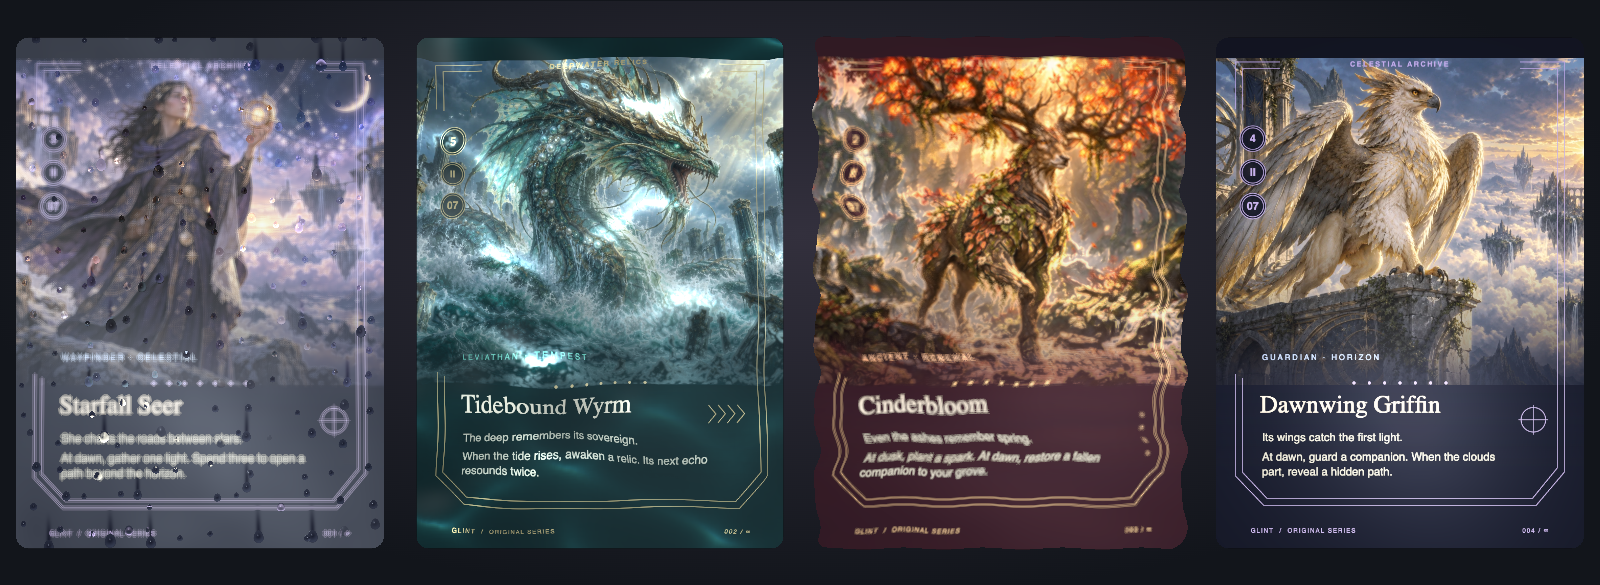
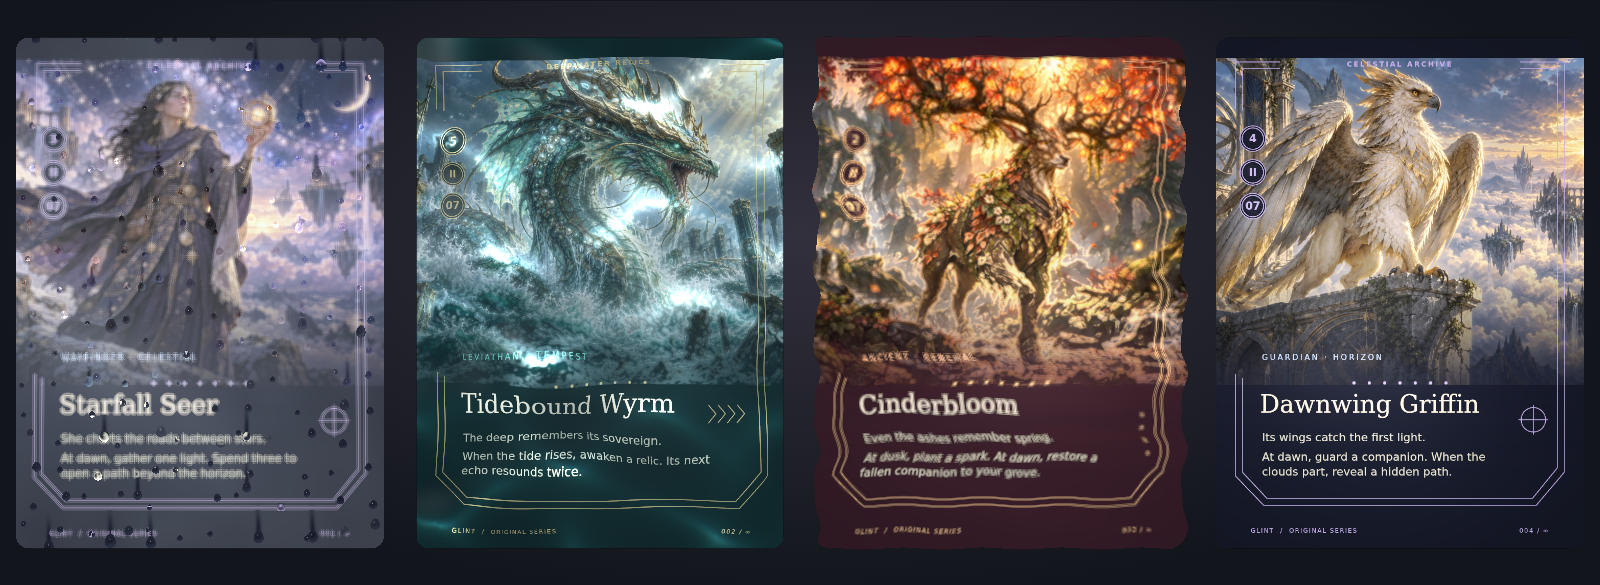
Keep foil lighting continuous through flat and define signed highlights

diff --git a/packages/browser/src/gpu/foil-reflection-shader.ts b/packages/browser/src/gpu/foil-reflection-shader.ts
@@ -34,7 +34,11 @@ vec3 foilSheenBlend(vec3 base, vec3 shine) {
 }
 vec2 foilPointer(vec3 normal) {
   vec2 delta = vec2(normal.x * 2.63, normal.y * 3.33) + vec2(pointer.x - .5, .5 - pointer.y);
-  vec2 rest = vec2(-.18, -.20) * exp(-dot(delta, delta) * 180.);
+  // Keep the flat-pose studio offset, but taper it broadly. A narrow Gaussian
+  // folds the light path near zero: highlights reverse as the card keeps turning.
+  // Here the offset Jacobian norm is <= length(vec2(.18,.20))*sqrt(4/e) < .33,
+  // so the unclamped mapping stays monotone with gain bounded by .67..1.33.
+  vec2 rest = vec2(-.18, -.20) * exp(-dot(delta, delta) * 2.);
   return clamp(vec2(.5) + delta + rest, 0., 1.);
 }
 vec2 foilSweepOffset(vec2 ptr) {

diff --git a/packages/browser/src/gpu/hologram-shader.ts b/packages/browser/src/gpu/hologram-shader.ts
@@ -23,7 +23,8 @@ vec3 localHologram(vec2 uv, vec3 ink, vec3 normal, vec3 view, float grainFilter)
   float stripe=dot(p,vec2(24.,8.));
   float grain=1.-.035*(.5+.5*cos(stripe*6.2831853))*grainFilter;
   float broad=exp(-dot(light-vec2(-.15,.12),light-vec2(-.15,.12))*2.8);
-  float flash=exp(-pow(dot(p-.5,vec2(.7,.25))+dot(light,vec2(.85,.4)),2.)*70.);
+  float flashAxis=dot(p-.5,vec2(.7,.25))+dot(light,vec2(.85,.4));
+  float flash=exp(-flashAxis*flashAxis*70.);
   float luminance=dot(ink,vec3(.2126,.7152,.0722));
   vec3 silver=ink*(.80+.12*broad)*grain;
   vec3 colored=diffraction*(.12+.28*broad+.25*flash)*(.25+.75*luminance);

diff --git a/packages/browser/src/gpu/liquid-foil-shader.ts b/packages/browser/src/gpu/liquid-foil-shader.ts
@@ -20,7 +20,8 @@ export const LIQUID_FOIL_GLSL = `
     vec3 tangent=normalize(vec3(normal.z,0.,-normal.x));
     vec3 bitangent=normalize(cross(normal,tangent));
     vec3 rippleNormal=normalize(normal+tangent*fluidNormal.x+bitangent*fluidNormal.y);
-    float spec=exp(-pow(satinStripAxis(uv,rippleNormal,view),2.)*620.);
+    float specAxis=satinStripAxis(uv,rippleNormal,view);
+    float spec=exp(-specAxis*specAxis*620.);
     float crest=smoothstep(.0003,.012,length(gradient));
     vec3 fluid=base;
     if(window>0.) {

diff --git a/packages/browser/src/gpu/foil-preview-shader.ts b/packages/browser/src/gpu/foil-preview-shader.ts
@@ -92,8 +92,8 @@ float microSparkle(vec2 cardUv, vec2 shift, float density) {
   vec2 rnd=foilHash2(i);
   float d=length(f-(.18+.64*rnd));
   float h=foilHash(i+vec2(11.7,53.1));
-  float speck=smoothstep(.28,.03,d)*step(.36,h);
-  float bright=smoothstep(.18,.0,d)*step(.82,h);
+  float speck=(1.-smoothstep(.03,.28,d))*step(.36,h);
+  float bright=(1.-smoothstep(.0,.18,d))*step(.82,h);
   return clamp(speck*.55+bright*.75,0.,1.);
 }
 float nacreWavePattern(vec2 cardUv) {

diff --git a/docs/foil-continuity.md b/docs/foil-continuity.md
@@ -1,0 +1,41 @@
+# Continuous foil lighting around flat
+
+The shared `foilPointer` helper used a narrow Gaussian to move studio light away
+from dead center at rest. Its offset changed too quickly near flat, so a steadily
+moving pointer could produce a reversing or accelerated highlight. This affected
+gloss, etched, prismatic, cold, Opal, rain, heat and pool finishes.
+
+The offset now tapers broadly. The flat-pose lighting is preserved. Before
+clamping, the offset's Jacobian has norm below 0.33, bounding the total mapping's
+gain between 0.67 and 1.33 and preventing that fold. No new textures, readbacks,
+program compilation or per-frame allocations are needed.
+
+The shader audit also replaces two undefined operations:
+
+- Hologram and optional liquid-coating highlights square signed axes directly,
+  instead of calling `pow` with a potentially negative base.
+- Etched/Opal sparkle fades use `1 - smoothstep(low, high, value)` instead of
+  reversed smoothstep edges.
+
+These input restrictions are specified in the
+[GLSL ES specification](https://registry.khronos.org/OpenGL/specs/es/3.2/GLSL_ES_Specification_3.20.html).
+The palette wraps join their endpoint colors; foil pillar envelopes vanish on
+both sides of their `fract` wrap. Reflection denominators already have positive
+floors, and surface reflection powers have nonnegative bases. These paths have
+no additional zero-crossing changes in this patch.
+
+`npm run test:foil-continuity` compiles the actual shared helper into a small GPU
+probe. It samples two-axis lighting through flat and checks monotonic direction
+and bounded gain, accounting for the CSS-to-texture Y inversion. The original
+narrow offset fails this test (`FOIL_REFERENCE_NARROW=1`). GPU readback on Linux
+Chromium/SwiftShader measured minimum forward gain -1.30 and maximum gain 3.90
+for the former mapping, versus 0.85 and 1.16 for the corrected mapping over the
+sampled range.
+
+The integration portion renders all nine finishes with a hologram, sweeping
+small pointer and surface-normal changes across flat on both axes at fixed
+time. It bounds frame changes and checks GL errors. See
+[`evidence/foil-continuity.json`](../evidence/foil-continuity.json). Separate
+hologram, overlay-foil and optical-surface tests cover their full behavior.
+This includes GPU readback completion, rather than only CPU submission timing.
+It does not constitute physical GPU, macOS, iPhone or Windows validation.
